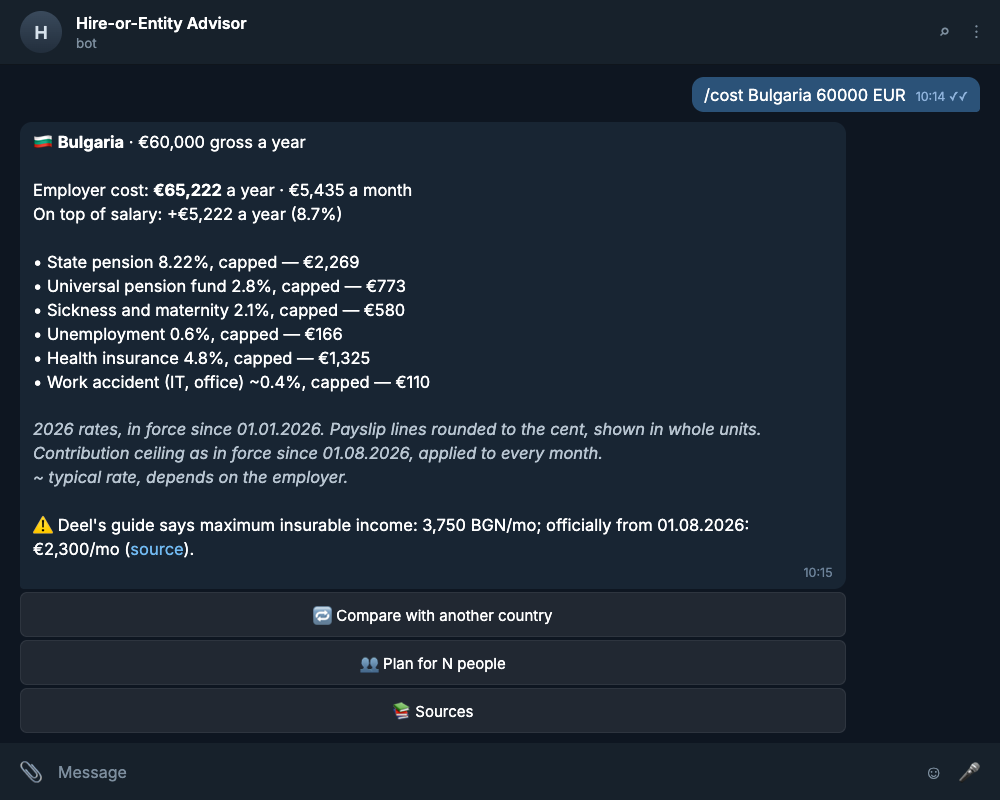
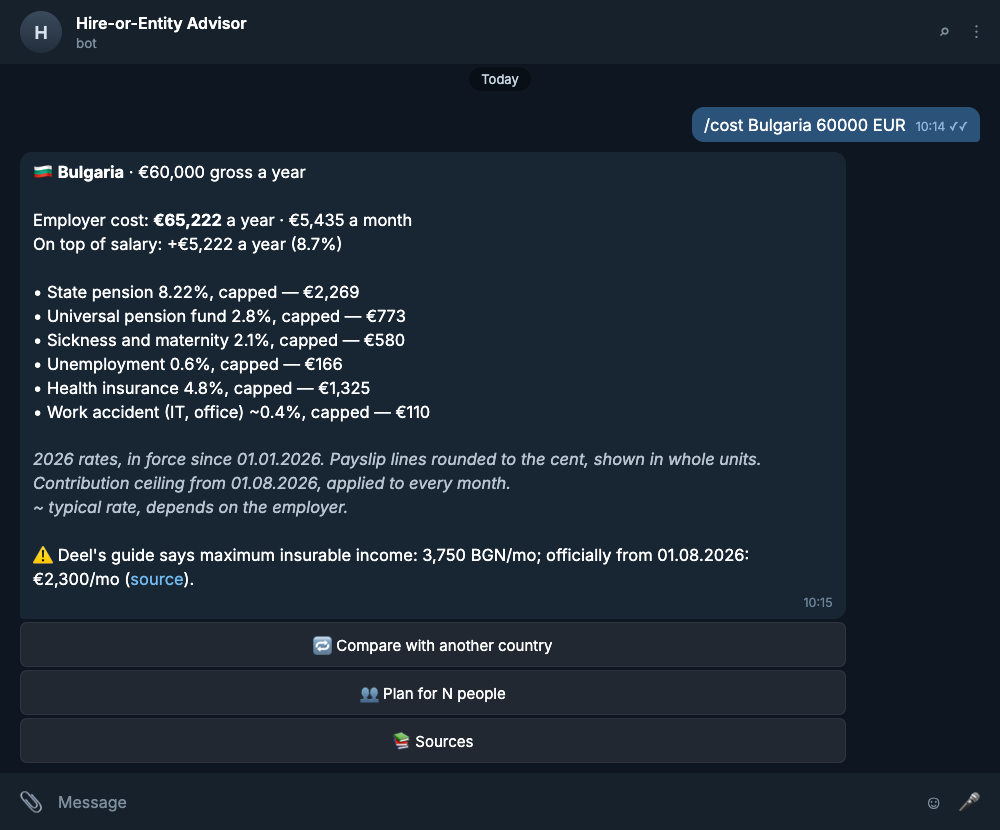
Review round 3 nits: ceiling note always shown, guarded language lookup

diff --git a/docs/remotion/src/Root.tsx b/docs/remotion/src/Root.tsx
@@ -8,7 +8,7 @@ import {Shot, type ShotName} from './shots';
 export const SHOTS: Partial<Record<ShotName, number>> = {
   start: 760,
   plan: 820,
-  cost: 800,
+  cost: 830,
   compare: 640,
   sources: 1060,
   errors: 600,

diff --git a/deel_advisor/i18n.py b/deel_advisor/i18n.py
@@ -101,7 +101,7 @@ MESSAGES: Final[dict[Lang, dict[str, str]]] = {
             "<i>{year} rates, in force since {since}. Payslip lines rounded to the cent, shown in whole units.</i>"
         ),
         "cost.estimate_note": "<i>~ typical rate, depends on the employer.</i>",
-        "cost.cap_since": "<i>Contribution ceiling as in force since {date}, applied to every month.</i>",
+        "cost.cap_since": "<i>Contribution ceiling from {date}, applied to every month.</i>",
         "cost.below_min_wage": "⚠ Below the {year} minimum wage ({minimum} a year).",
         "cost.monthly_hint": "I expect an <b>annual</b> salary; for a monthly one write <code>{example}</code>.",
         "plan.header": "{flag} <b>{country}</b> · {team} × {salary} a year · {months}",
@@ -212,7 +212,7 @@ MESSAGES: Final[dict[Lang, dict[str, str]]] = {
             "цента, показано в цілих одиницях.</i>"
         ),
         "cost.estimate_note": "<i>~ типова ставка, залежить від роботодавця.</i>",
-        "cost.cap_since": "<i>Стеля внесків — чинна з {date}, застосована до кожного місяця.</i>",
+        "cost.cap_since": "<i>Стеля внесків — з {date}, застосована до кожного місяця.</i>",
         "cost.below_min_wage": "⚠ Це нижче мінімальної зарплати {year} року ({minimum} на рік).",
         "cost.monthly_hint": "Я чекаю <b>річну</b> зарплату; для місячної напишіть <code>{example}</code>.",
         "plan.header": "{flag} <b>{country}</b> · {team} × {salary} на рік · {months}",
@@ -323,7 +323,7 @@ MESSAGES: Final[dict[Lang, dict[str, str]]] = {
             "цента, показано в целых единицах.</i>"
         ),
         "cost.estimate_note": "<i>~ типичная ставка, зависит от работодателя.</i>",
-        "cost.cap_since": "<i>Потолок взносов — действующий с {date}, применён к каждому месяцу.</i>",
+        "cost.cap_since": "<i>Потолок взносов — с {date}, применён к каждому месяцу.</i>",
         "cost.below_min_wage": "⚠ Это ниже минимальной зарплаты {year} года ({minimum} в год).",
         "cost.monthly_hint": "Я жду <b>годовую</b> зарплату; для месячной напишите <code>{example}</code>.",
         "plan.header": "{flag} <b>{country}</b> · {team} × {salary} в год · {months}",

diff --git a/deel_advisor/replies.py b/deel_advisor/replies.py
@@ -122,16 +122,16 @@ def _input_lines(lang: Lang, query: Query, country: Country, ctx: Context) -> li
 CEILING_FIGURES = ("pension_cap", "health_cap", "max_insurable_income")
 
 
-def _ceiling_changed(country: Country, today: date) -> date | None:
-    """When a ceiling moved during the year (Bulgaria, 1 August), the date of the current one.
+def _ceiling_changed(country: Country) -> date | None:
+    """When a ceiling moved during the year (Bulgaria, 1 August), the date of the newer one.
 
-    The calculation is for a hire made now, so every month uses the ceiling in force today
-    rather than averaging in months already behind us; the reply says that out loud.
+    The calculation prices a hire made from now on, so every month uses the newest ceiling
+    rather than averaging in months that are already behind us; the reply says so.
     """
     dates = [
         figure.effective_from
         for key, figure in country.official.figures.items()
-        if key in CEILING_FIGURES and figure.effective_from and country.effective_from < figure.effective_from <= today
+        if key in CEILING_FIGURES and figure.effective_from and figure.effective_from > country.effective_from
     ]
     return max(dates, default=None)
 
@@ -162,7 +162,7 @@ def cost(lang: Lang, query: Query, ctx: Context) -> str:
         capped = f", {t(lang, 'cost.capped')}" if line.capped and c.floor is None else ""
         out.append(f"• {contribution_name(lang, c)} {rate}{capped} — {_money(lang, line.annual, cur)}")
     out += ["", t(lang, "cost.footer", year=country.year, since=_date(country.effective_from))]
-    if (cap_since := _ceiling_changed(country, ctx.today)) is not None:
+    if (cap_since := _ceiling_changed(country)) is not None:
         out.append(t(lang, "cost.cap_since", date=_date(cap_since)))
     if any(c.estimate for c in country.contributions):
         out.append(t(lang, "cost.estimate_note"))
@@ -239,7 +239,7 @@ def plan(lang: Lang, query: Query, ctx: Context) -> str:
         out.append(t(lang, key, team=team, months=horizon, diff=_money(lang, diff, cur)))
     out += _pays_off(lang, result)
     out += ["", t(lang, "plan.note")]
-    if (cap_since := _ceiling_changed(country, ctx.today)) is not None:
+    if (cap_since := _ceiling_changed(country)) is not None:
         out.append(t(lang, "cost.cap_since", date=_date(cap_since)))
     extra = warnings(lang, country, ctx) + _fx_warning(lang, ctx)
     if extra:

diff --git a/tests/test_replies.py b/tests/test_replies.py
@@ -220,9 +220,9 @@ def test_uk_rates_hold_until_april(real_catalog: Catalog, fixed_rates: Rates) ->
 def test_mid_year_ceiling_is_announced(real_catalog: Catalog, fixed_rates: Rates) -> None:
     ctx = replies.Context(real_catalog, fixed_rates, TODAY)
     bulgaria = parse("Bulgaria 60k", real_catalog.index, {"EUR"})
-    assert "ceiling as in force since 01.08.2026, applied to every month" in replies.cost("en", bulgaria, ctx)
+    assert "ceiling from 01.08.2026, applied to every month" in replies.cost("en", bulgaria, ctx)
     germany = parse("Germany 60k", real_catalog.index, {"EUR"})
-    assert "ceiling as in force since" not in replies.cost("en", germany, ctx)
+    assert "ceiling from" not in replies.cost("en", germany, ctx)
 
 
 def test_share_capital_has_a_source(real_catalog: Catalog, fixed_rates: Rates) -> None:
@@ -232,9 +232,8 @@ def test_share_capital_has_a_source(real_catalog: Catalog, fixed_rates: Rates) -
     assert "Share capital €25,000: stays the company's, not a cost — <a href=" in text
 
 
-def test_ceiling_note_waits_for_its_date(real_catalog: Catalog, fixed_rates: Rates) -> None:
+def test_ceiling_note_is_in_plan_replies_too(real_catalog: Catalog, fixed_rates: Rates) -> None:
     bulgaria = parse("Bulgaria 60k 3 people", real_catalog.index, {"EUR"})
+    # Even before the date the calculation uses the newer ceiling, so the note is always there.
     july = replies.Context(real_catalog, fixed_rates, date(2026, 7, 15))
-    assert "ceiling as in force since" not in replies.plan("en", bulgaria, july)
-    autumn = replies.Context(real_catalog, fixed_rates, TODAY)
-    assert "ceiling as in force since 01.08.2026" in replies.plan("en", bulgaria, autumn)
+    assert "ceiling from 01.08.2026, applied to every month" in replies.plan("en", bulgaria, july)

diff --git a/deel_advisor/bot/handlers.py b/deel_advisor/bot/handlers.py
@@ -390,7 +390,10 @@ async def on_error(event: ErrorEvent, **data: Any) -> bool:
     services: Services | None = data.get("services")
     lang: Lang = "en"
     if user is not None:
-        stored = await services.prefs.get(user.id) if services is not None else None
+        stored = None
+        if services is not None:
+            with contextlib.suppress(Exception):  # the store may be what broke
+                stored = await services.prefs.get(user.id)
         lang = stored or pick_lang(user.language_code)
     with contextlib.suppress(TelegramAPIError):
         if event.update.callback_query is not None:
